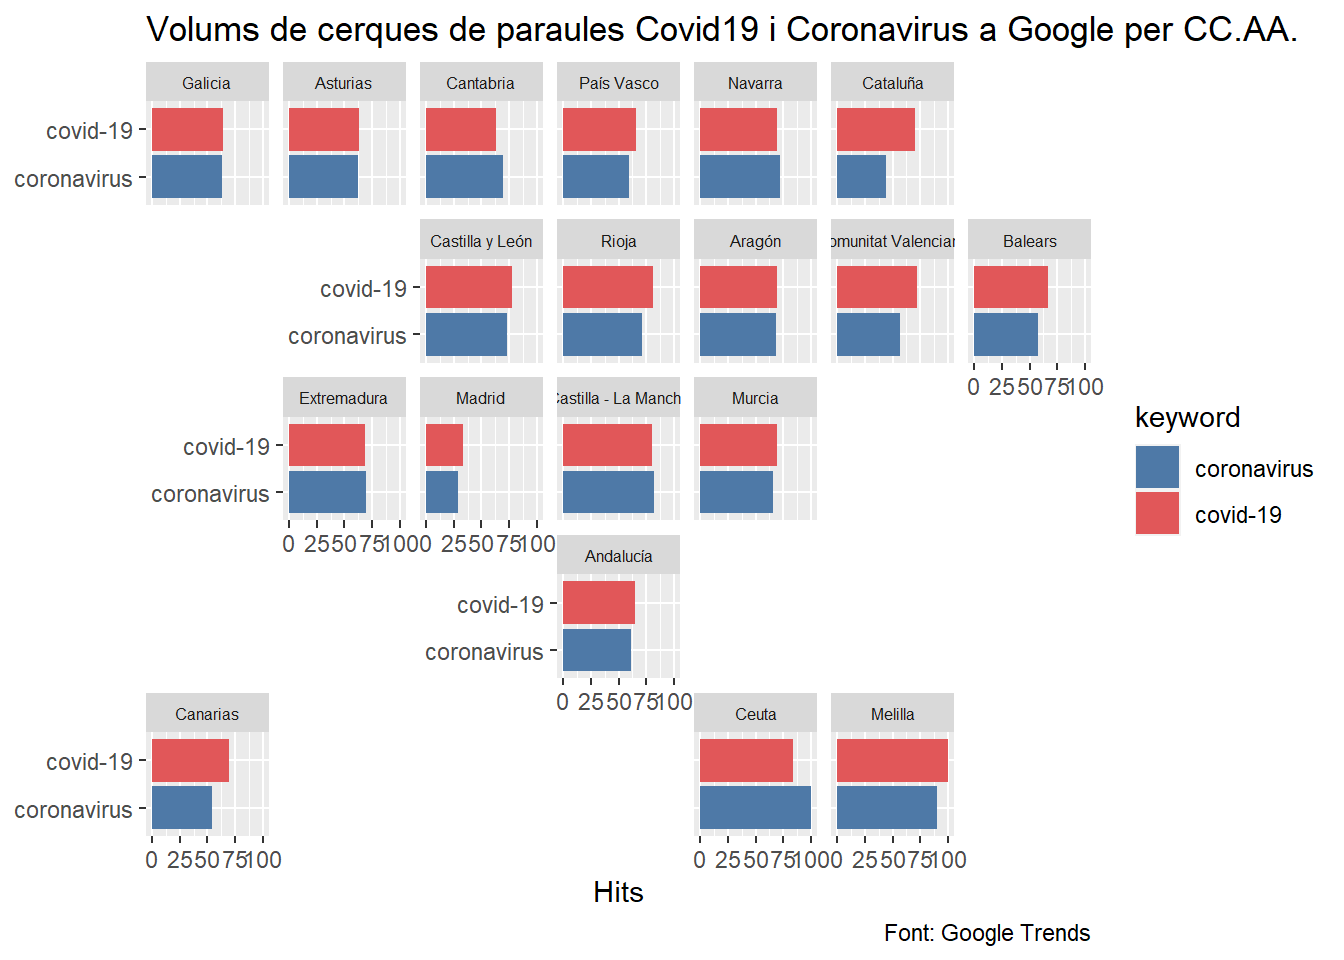
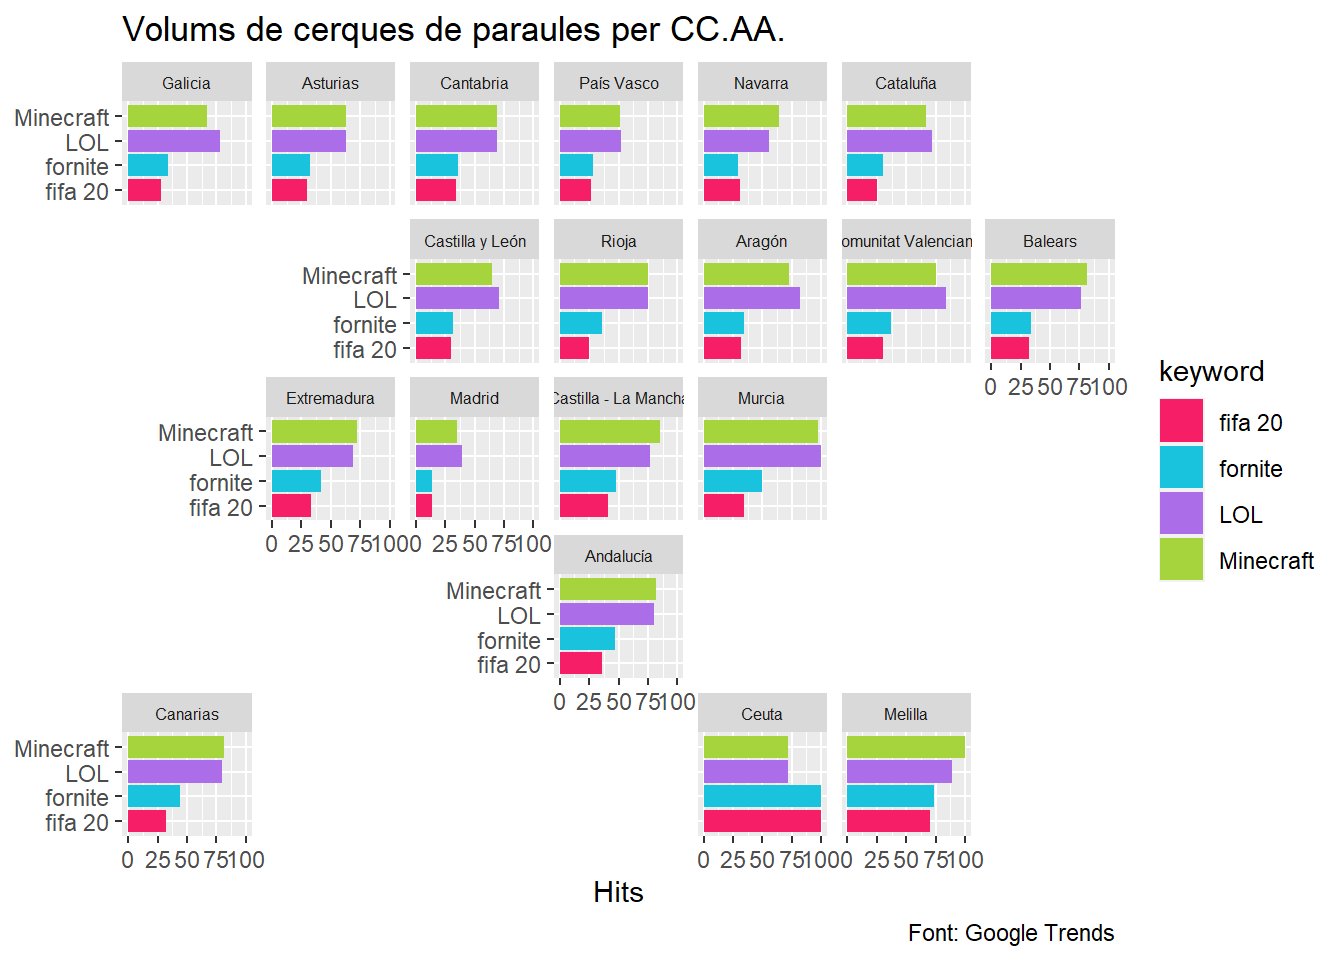
games

Changed region(s): [[0.0, 0.0, 0.9688, 0.9062], [0.0, 0.7188, 0.2188, 0.9062], [0.6562, 0.9375, 0.8438, 1.0]]

diff --git a/blog/fer-un-mapa-geofacet/index.html b/blog/fer-un-mapa-geofacet/index.html
@@ -1177,7 +1177,7 @@ div.main .content .markdown pre, div.main .content .markdown pre code {
 <pre class="r"><code>#install.packages(&quot;geofacet&quot;)
 library(geofacet)
 library(ggplot2)</code></pre>
-<p>El paquet inclou malles per representar les diferents regions del món en cuadrícules on puc posar-hi les dades que m’interessin. Aquestes són les grids d’Espanya:</p>
+<p>El paquet inclou malles per representar les diferents regions del món en quadrícules on puc posar-hi les dades que m’interessin. Aquestes són les grids d’Espanya:</p>
 <p>“spain_prov_grid1”
 “spain_ccaa_grid1”<br />
 “spain_prov_grid2”</p>
@@ -1193,7 +1193,7 @@ grid_preview(lamevamalla)</code></pre>
 ## [13] &quot;Madrid&quot;               &quot;Castilla - La Mancha&quot; &quot;Murcia&quot;              
 ## [16] &quot;Andalucía&quot;            &quot;Canarias&quot;             &quot;Melilla&quot;             
 ## [19] &quot;Ceuta&quot;</code></pre>
-<p>Intentarem posar-hi els resultats d’una cerca a Google trends. Busquem, per exemple, què busca la gent des de diferents comunitats autònomes. Provarem amb un parell de paraules (“covid-19” i “coronavirus”)</p>
+<p>Intentarem posar-hi els resultats d’una cerca a Google trends. Busquem, per exemple, què busca la gent des de diferents comunitats autònomes. Provarem amb un parell de paraules relacionades amb jocs d’ordinador.</p>
 <pre class="r"><code>library(gtrendsR)
 library(maps)
 library(ggplot2)
@@ -1204,7 +1204,7 @@ library(viridis)
 library(ggrepel)
 library(tidyverse)
 
-cerca = gtrends(c(&quot;covid-19&quot;, &quot;coronavirus&quot;), 
+cerca = gtrends(c(&quot;fornite&quot;, &quot;fifa 20&quot;, &quot;LOL&quot;, &quot;Minecraft&quot;), 
                gprop = &quot;web&quot;, 
                time = &quot;all&quot;, 
                geo = c(&quot;ES&quot;))         
@@ -1214,29 +1214,42 @@ cercaInterestByRegion &lt;- dplyr::as_tibble(cerca$interest_by_region)
 cercaInterestByRegion$id &lt;- rownames(cercaInterestByRegion)</code></pre>
 <p>Si miro les dades descarregades de Google, tenim una taula “interest_by_region” on les dades de les regions (“location”) estan en anglès:</p>
 <pre class="r"><code>cerca[[&quot;interest_by_region&quot;]][[&quot;location&quot;]]</code></pre>
-<pre><code>##  [1] &quot;Melilla&quot;             &quot;Ceuta&quot;               &quot;La Rioja&quot;           
-##  [4] &quot;Castile-La Mancha&quot;   &quot;Castile and LeÃ³n&quot;   &quot;Valencian Community&quot;
-##  [7] &quot;Catalonia&quot;           &quot;Canary Islands&quot;      &quot;Aragon&quot;             
-## [10] &quot;Region of Murcia&quot;    &quot;Navarre&quot;             &quot;Extremadura&quot;        
-## [13] &quot;Balearic Islands&quot;    &quot;Basque Country&quot;      &quot;Andalusia&quot;          
-## [16] &quot;Galicia&quot;             &quot;Asturias&quot;            &quot;Cantabria&quot;          
+<pre><code>##  [1] &quot;Ceuta&quot;               &quot;Melilla&quot;             &quot;Region of Murcia&quot;   
+##  [4] &quot;Castile-La Mancha&quot;   &quot;Andalusia&quot;           &quot;Canary Islands&quot;     
+##  [7] &quot;Extremadura&quot;         &quot;Valencian Community&quot; &quot;Cantabria&quot;          
+## [10] &quot;La Rioja&quot;            &quot;Galicia&quot;             &quot;Aragon&quot;             
+## [13] &quot;Balearic Islands&quot;    &quot;Castile and LeÃ³n&quot;   &quot;Asturias&quot;           
+## [16] &quot;Catalonia&quot;           &quot;Navarre&quot;             &quot;Basque Country&quot;     
 ## [19] &quot;Community of Madrid&quot; &quot;Ceuta&quot;               &quot;Melilla&quot;            
-## [22] &quot;Castile-La Mancha&quot;   &quot;Castile and LeÃ³n&quot;   &quot;Navarre&quot;            
-## [25] &quot;La Rioja&quot;            &quot;Cantabria&quot;           &quot;Extremadura&quot;        
-## [28] &quot;Aragon&quot;              &quot;Region of Murcia&quot;    &quot;Galicia&quot;            
-## [31] &quot;Asturias&quot;            &quot;Andalusia&quot;           &quot;Basque Country&quot;     
-## [34] &quot;Balearic Islands&quot;    &quot;Valencian Community&quot; &quot;Canary Islands&quot;     
-## [37] &quot;Catalonia&quot;           &quot;Community of Madrid&quot;</code></pre>
+## [22] &quot;Castile-La Mancha&quot;   &quot;Andalusia&quot;           &quot;Cantabria&quot;          
+## [25] &quot;Region of Murcia&quot;    &quot;Extremadura&quot;         &quot;Canary Islands&quot;     
+## [28] &quot;Aragon&quot;              &quot;Balearic Islands&quot;    &quot;Navarre&quot;            
+## [31] &quot;Asturias&quot;            &quot;Valencian Community&quot; &quot;Castile and LeÃ³n&quot;  
+## [34] &quot;Galicia&quot;             &quot;Basque Country&quot;      &quot;Catalonia&quot;          
+## [37] &quot;La Rioja&quot;            &quot;Community of Madrid&quot; &quot;Region of Murcia&quot;   
+## [40] &quot;Melilla&quot;             &quot;Valencian Community&quot; &quot;Aragon&quot;             
+## [43] &quot;Andalusia&quot;           &quot;Canary Islands&quot;      &quot;Galicia&quot;            
+## [46] &quot;Castile-La Mancha&quot;   &quot;Balearic Islands&quot;    &quot;La Rioja&quot;           
+## [49] &quot;Catalonia&quot;           &quot;Ceuta&quot;               &quot;Castile and LeÃ³n&quot;  
+## [52] &quot;Cantabria&quot;           &quot;Extremadura&quot;         &quot;Asturias&quot;           
+## [55] &quot;Navarre&quot;             &quot;Basque Country&quot;      &quot;Community of Madrid&quot;
+## [58] &quot;Melilla&quot;             &quot;Region of Murcia&quot;    &quot;Castile-La Mancha&quot;  
+## [61] &quot;Canary Islands&quot;      &quot;Andalusia&quot;           &quot;Balearic Islands&quot;   
+## [64] &quot;Valencian Community&quot; &quot;La Rioja&quot;            &quot;Aragon&quot;             
+## [67] &quot;Extremadura&quot;         &quot;Ceuta&quot;               &quot;Cantabria&quot;          
+## [70] &quot;Galicia&quot;             &quot;Catalonia&quot;           &quot;Castile and LeÃ³n&quot;  
+## [73] &quot;Navarre&quot;             &quot;Asturias&quot;            &quot;Basque Country&quot;     
+## [76] &quot;Community of Madrid&quot;</code></pre>
 <p>Per tant canvio el nom de les dues taules i dels noms per a que coincideixin.</p>
 <pre class="r"><code>cercaInterestByRegion[[&quot;name&quot;]] &lt;- cercaInterestByRegion[[&quot;location&quot;]]
 cercaInterestByRegion[[&quot;name&quot;]] &lt;- cercaInterestByRegion[[&quot;name&quot;]] %&gt;% str_replace_all(c(&quot;Castile-La Mancha&quot; = &quot;Castilla - La Mancha&quot;, &quot;Castile and LeÃ³n&quot;= &quot;Castilla y León&quot;, &quot;Navarre&quot;=&quot;Navarra&quot;,&quot;Aragon&quot;= &quot;Aragón&quot;, &quot;La Rioja&quot;=&quot;Rioja&quot;, &quot;Region of Murcia&quot;=&quot;Murcia&quot;, &quot;Andalusia&quot;=&quot;Andalucía&quot;, &quot;Basque Country&quot;=&quot;País Vasco&quot;, &quot;Valencian Community&quot;=&quot;Comunitat Valenciana&quot;, &quot;Catalonia&quot;=&quot;Cataluña&quot;, &quot;Balearic Islands&quot;=&quot;Balears&quot;, &quot;Canary Islands&quot;=&quot;Canarias&quot;, &quot;Community of Madrid&quot;=&quot;Madrid&quot;))</code></pre>
 <p>Represento:</p>
 <pre class="r"><code>ggplot(cercaInterestByRegion, aes(keyword, hits, fill = keyword)) +
   geom_col() +
-  scale_fill_manual(values = c(&quot;#4e79a7&quot;, &quot;#e15759&quot;)) +
+  scale_fill_manual(values = c(&quot;#F71E68&quot;, &quot;#19C3DD&quot;,  &quot;#AC6EE8&quot;, &quot;#A6D43D&quot;)) +
   facet_geo(~ name, grid = lamevamalla) +
   coord_flip() +
-  labs(title = &quot;Volums de cerques de paraules Covid19 i Coronavirus a Google per CC.AA.&quot;,
+  labs(title = &quot;Volums de cerques de paraules per CC.AA.&quot;,
     caption = &quot;Font: Google Trends&quot;,
     x = NULL,
     y = &quot;Hits&quot;) +
